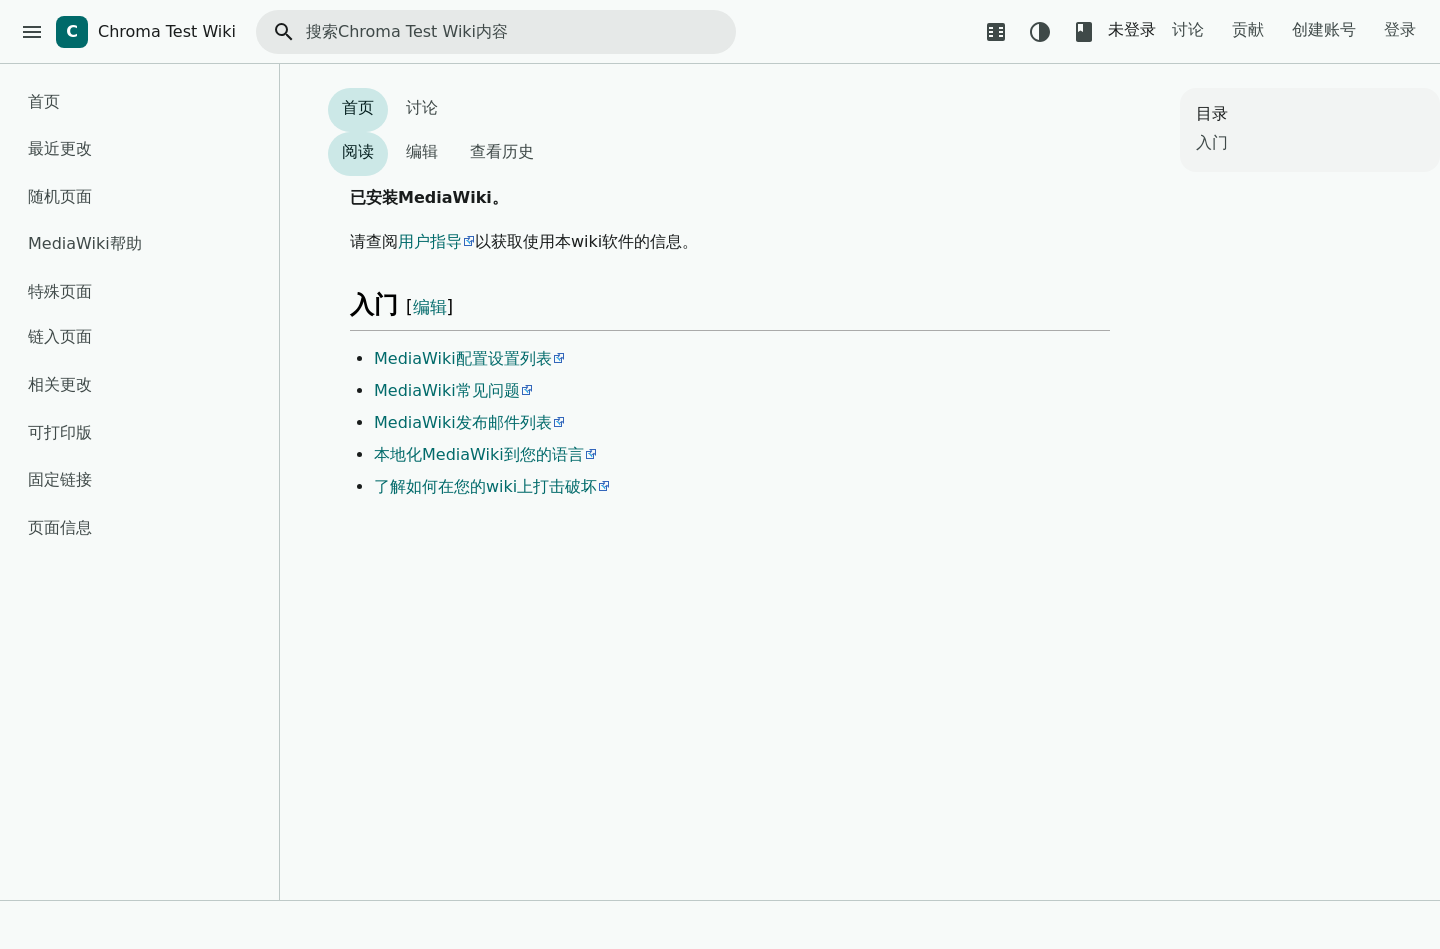
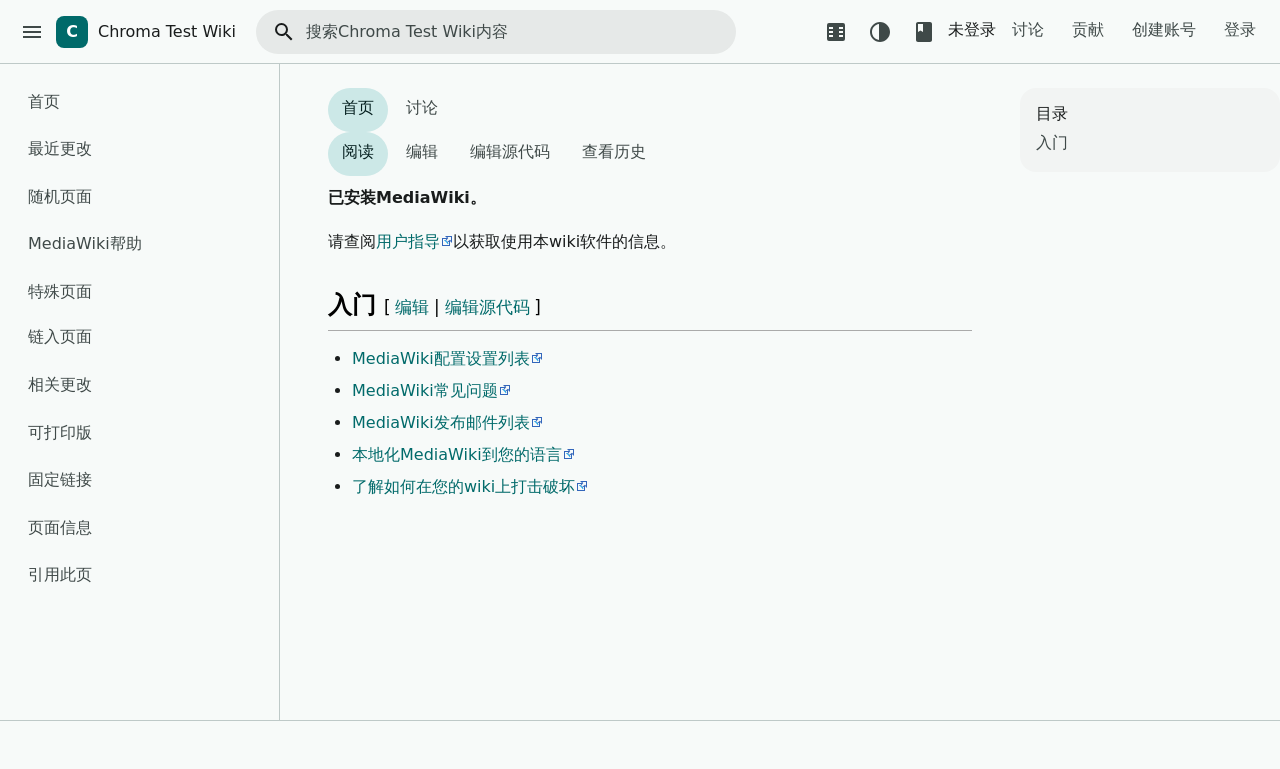
feat: MobileFrontend B2 coexistence and mobile app bar polish

diff --git a/resources/styles/base.css b/resources/styles/base.css
@@ -560,3 +560,25 @@ body[data-chroma-theme="dark"] { color-scheme: dark; }
 @media (prefers-color-scheme: dark) {
 	body[data-chroma-theme="auto"] { color-scheme: dark; }
 }
+
+/* ---------- mobile app bar ---------- */
+.chroma-search-toggle { display: none; }
+@media (max-width: 720px) {
+	.chroma-search { display: none; }
+	.chroma-search-toggle { display: inline-grid; }
+	.chroma-app-bar__start { min-width: 0; }
+	.chroma-brand { min-width: 0; }
+	.chroma-brand__text {
+		max-width: 34vw;
+		overflow: hidden;
+		text-overflow: ellipsis;
+		white-space: nowrap;
+	}
+	.chroma-app-bar__actions { gap: 0; }
+}
+
+@media (max-width: 720px) {
+	.chroma-user-menu { display: none; }
+	.chroma-brand__mark { flex: 0 0 auto; }
+	.chroma-app-bar { overflow: hidden; }
+}

diff --git a/includes/SkinChroma.php b/includes/SkinChroma.php
@@ -18,6 +18,7 @@ class SkinChroma extends \SkinMustache {
 	public function getTemplateData() {
 		$data = parent::getTemplateData();
 		$data['sitename'] = $this->getConfig()->get( 'Sitename' );
+		$data['link-search'] = \SpecialPage::getTitleFor( 'Search' )->getLocalURL();
 		return $data;
 	}
 }

diff --git a/docs/COMPATIBILITY.md b/docs/COMPATIBILITY.md
@@ -31,6 +31,16 @@ Known harness issues (not skin defects):
 - CheckUser and TemplateStyles placeholders from the core source archive are not
   installed; they are not needed for the skin harness.
 
+## MobileFrontend (B2) — MediaWiki 1.46.0
+
+- Installed `MobileFrontend` + `MinervaNeue`.
+- Desktop UA: Chroma (skin-chroma).
+- Mobile UA (Pixel 7): MinervaNeue serves the mobile view, Chroma remains the
+  desktop skin; no functional breakage.
+- Forced `?useskin=chroma` on a mobile viewport renders Chroma's responsive
+  layout (drawer becomes overlay, search collapses to an icon, TOC hidden).
+- Result: B2 coexistence verified.
+
 ## Tier 1 — in scope for v0.1
 
 MediaWiki 1.43 bundled extensions (33):

diff --git a/README.md b/README.md
@@ -25,6 +25,12 @@
 |---|---|
 | ![1.43](screenshots/mw143-home.png) | ![1.45](screenshots/mw145-home.png) |
 
+移动端（MobileFrontend + MinervaNeue 共存）：默认手机视图由 MinervaNeue 提供，桌面与 `?useskin=chroma` 使用 Chroma。
+
+| 手机端（MinervaNeue） | 手机端（强制 Chroma） |
+|---|---|
+| ![MinervaNeue](screenshots/mw146-mobile-minerva.png) | ![Chroma mobile](screenshots/mw146-mobile-chroma.png) |
+
 
 ## MediaWiki 真机截图（1.46.0）
 
